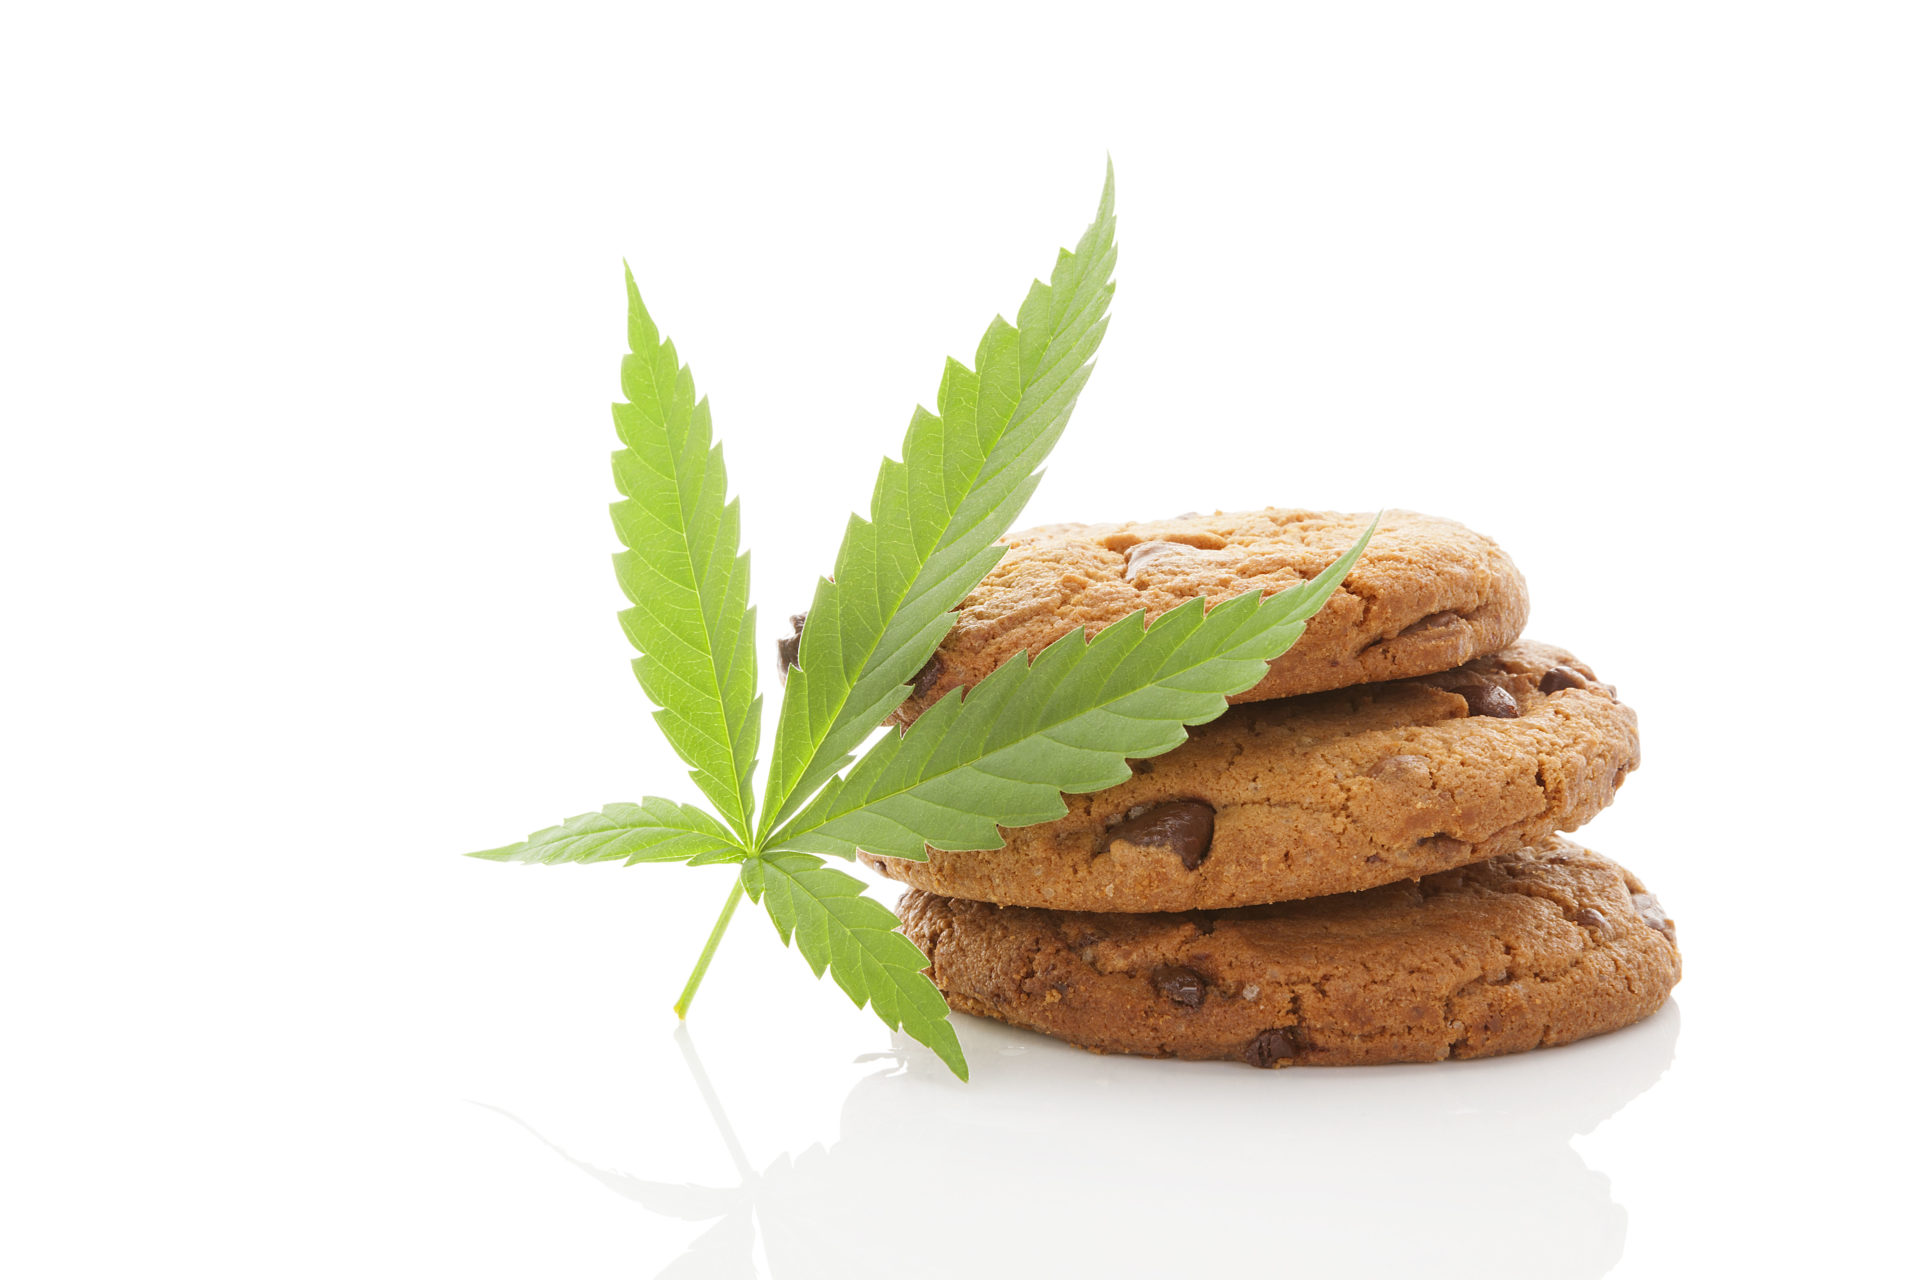
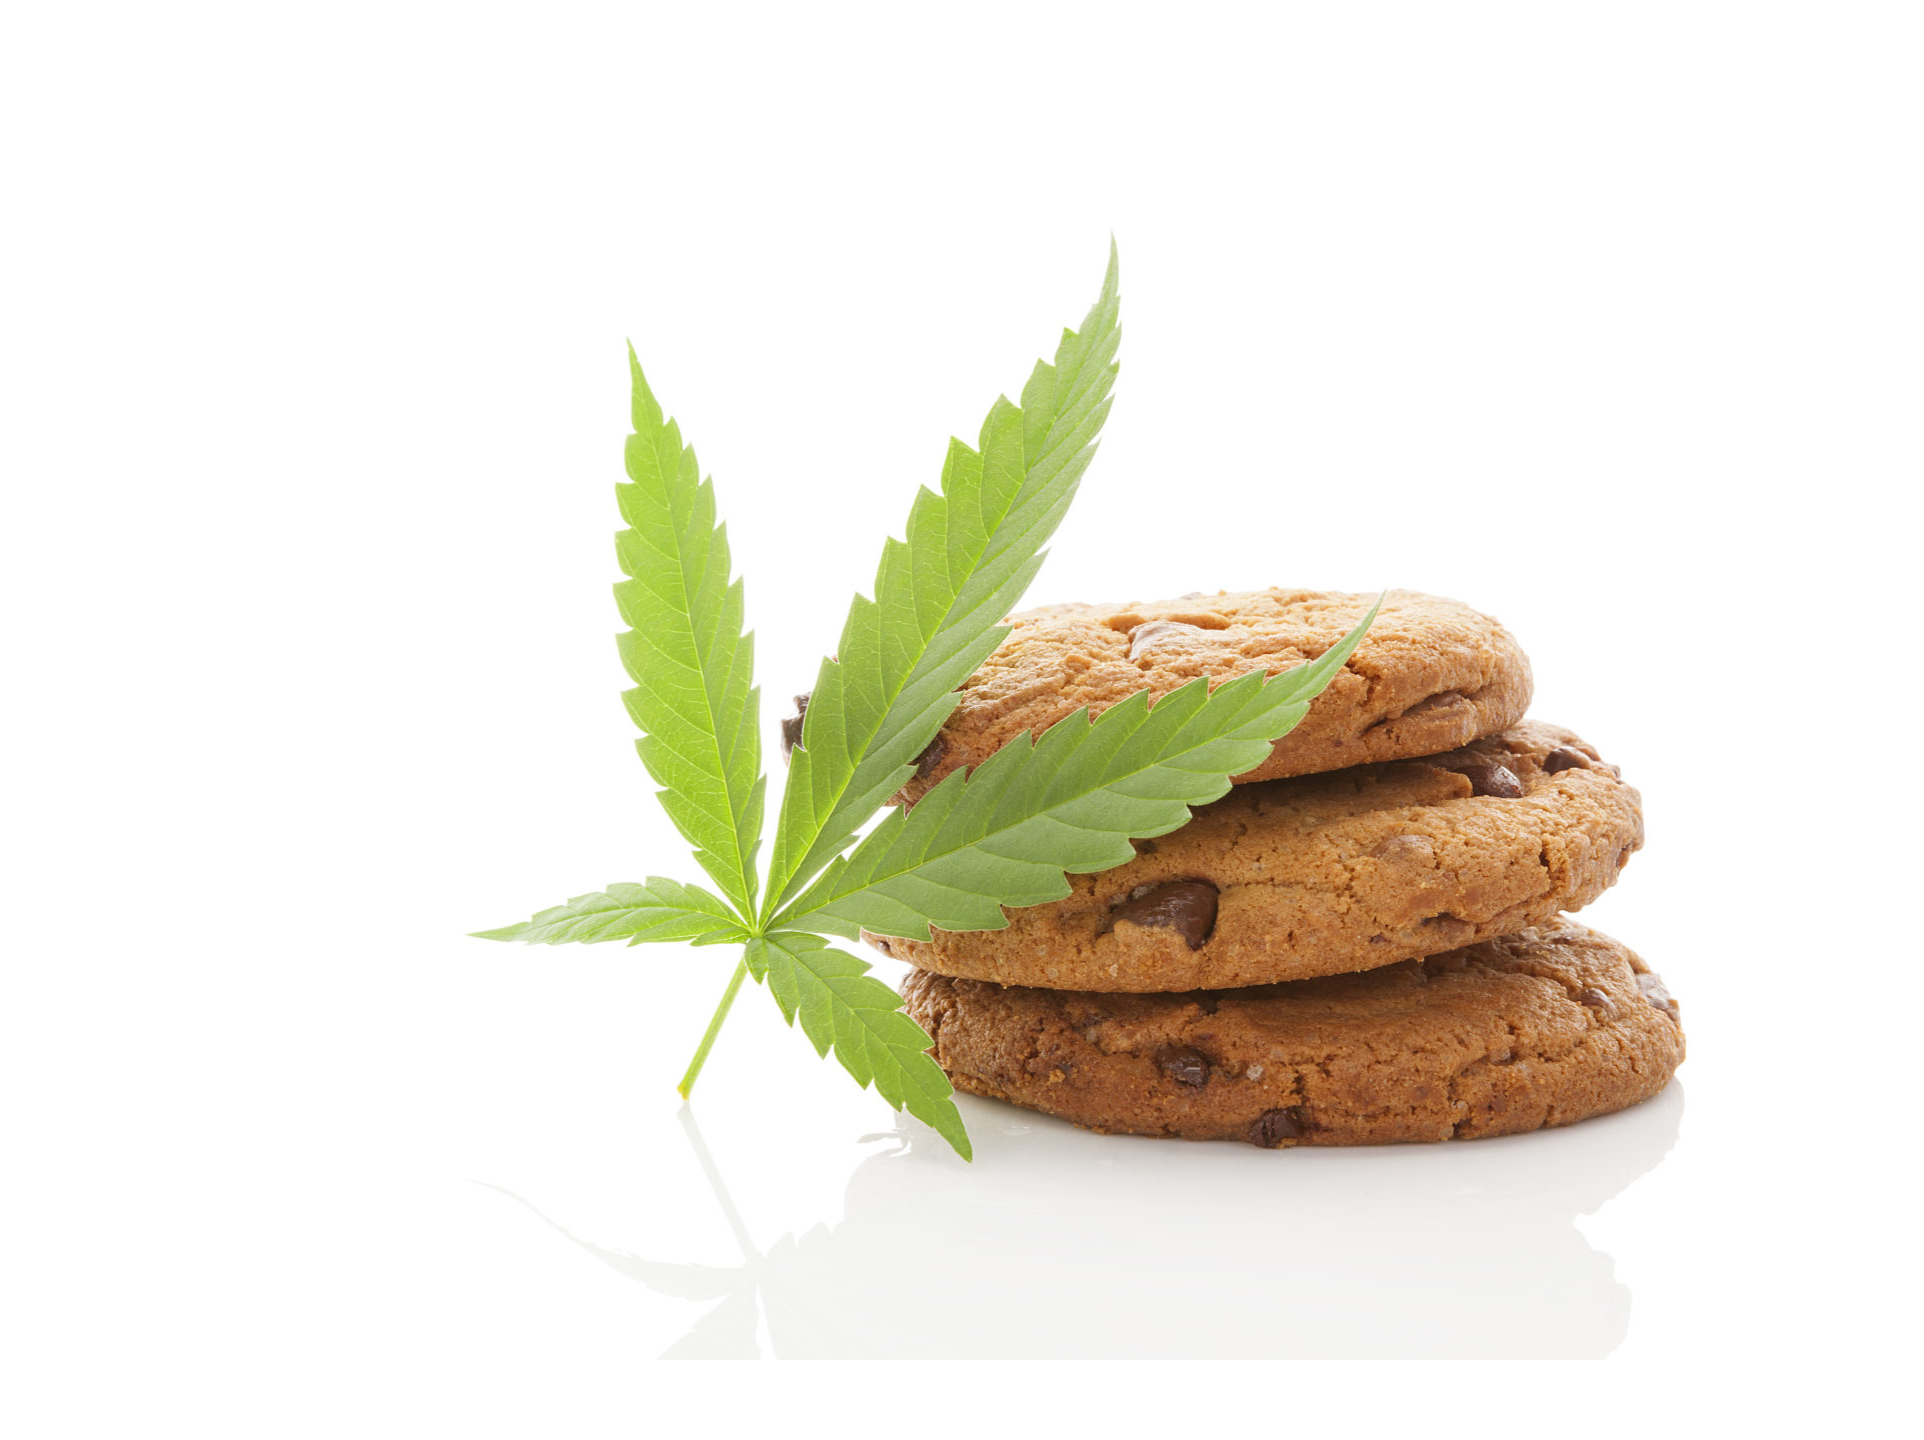
theme challenge update, spanning bgimg

Changed region(s): [[0.25, 0.125, 0.875, 0.875]]

diff --git a/projects/theme-challenge-4/modules/articles-intro/style.css b/projects/theme-challenge-4/modules/articles-intro/style.css
@@ -51,72 +51,60 @@ article-grid ul {
 	article-grid ul {
 		display: grid;
 		grid-template-columns: repeat(8, 1fr);
-	    grid-template-rows: repeat(7, 1fr);
+	    grid-template-rows: repeat(6, 1fr);
 	    grid-gap: 15px;
 
-	    /*display: grid;
-		grid-template-columns: repeat(6, 1fr);
-		grid-template-rows: repeat(5, 1fr);
-		grid-column-gap: 5px;
-		grid-row-gap: 5px;
-*/
+
 
 	}
 
-	/*article-grid ul > * {
-		width: 100%;
-	    height: 100%;
-	    object-fit: cover;
-	}*/
+
 
 
 	article-grid ul li:nth-of-type(1){ /*mixmatch*/
 		
 
 
-	    grid-column-start: 3;
-	    grid-column-end: 5;
+	
+	    grid-column: 1 / 3;
 
-	    grid-row-start: 6;
-	    grid-row-end: 8;
+	    grid-row-start: 3;
+	    grid-row-end: 5;
 
 	    
 
-	    /*grid-area: 4 / 1 / 5 / 3; */
 
 	}
 
 	article-grid ul li:nth-of-type(2){ /*flower*/
-		grid-column-start: 3;
-	    grid-column-end: 5;
+
+	    grid-column: 6 / 9;
 
 	    grid-row-start: 4;
-	    grid-row-end: 6;
+	    grid-row-end: 7;
 
 
-	    /*grid-area: 1 / 1 / 4 / 5;*/
 	    
 
 	}
 	article-grid ul li:nth-of-type(3){ /*carts*/
-		grid-column-start: 7;
-	    grid-column-end: 9;
 
-	    grid-row-start: 1;
+
+	    grid-column: 7 / 9;
+
+	    grid-row-start: 2;
 	    grid-row-end: 4;
 
-	     /*grid-area: 3 / 5 / 6 / 7;*/
 	    
 	}
-	article-grid ul li:nth-of-type(4){ /*mystic*/
+	article-grid ul li:nth-of-type(4){ /*edible*/
 		grid-column-start: 1;
 	    grid-column-end: 3;
 
-	    grid-row-start: 2;
-	    grid-row-end: 5;
+	    grid-row-start: 1;
+	    grid-row-end: 3;
 
 	    
-	    /*grid-area: 5 / 1 / 6 / 3;*/
 	    
 	}
 	article-grid ul li:nth-of-type(5){ /*cookie*/
@@ -126,16 +114,14 @@ article-grid ul {
 	    grid-row-start: 1;
 	    grid-row-end: 4;
 
-	    /*grid-area: 1 / 5 / 3 / 7;*/
 	    
 	}
 	article-grid ul li:nth-of-type(6){ /*conc*/
-		grid-column-start: 5;
-	    grid-column-end: 8;
+		grid-column-start: 3;
+	    grid-column-end: 6;
 
 	    grid-row-start: 4;
-	    grid-row-end: 7;
-	    /*grid-area: 4 / 3 / 6 / 5;*/
+	    grid-row-end: 6;
 
 
 	}

diff --git a/projects/theme-challenge-4/styles/site.css b/projects/theme-challenge-4/styles/site.css
@@ -34,10 +34,10 @@
 
 /* then other contextual styles */
 body {
-	
-	background-size: 90%;
-	background-repeat: no-repeat;
-	background-position: 100% 0%;
+	background-image: url('../images/leaf-art.jpg'), url('../images/flower.jpg');
+	background-size: 100vw 800px, 450px;
+	background-repeat: no-repeat, repeat-x;
+	background-position: center 30px, 50% 25%;
 	background-color: var(--paper);
 	color: var(--ink);
 }
@@ -45,7 +45,7 @@ body {
 body > header {
 	/*background-color: var(--color);*/
 	border-top: 30px solid var(--color);
-	background-color: var(--paper);
+	/*background-color: var(--paper);*/
 }
 
 /*section:nth-child(odd) {
@@ -60,14 +60,15 @@ body > header {
 
 section, header, footer {
 	padding: 0 10px;
+	/*border: 5px solid red;*/
 }
 
 
 
 section.welcome {
-	background-image: url('../images/store.jpg');
-	background-image: url('../images/flower-wide.jpg');
-	background-image: url('../images/leaf-art.jpg');
+/*	background-image: url('../images/store.jpg');
+	background-image: url('../images/flower-wide.jpg');*/
+	/*background-image: url('../images/leaf-art.jpg');*/
 	background-size: cover;
 	background-repeat: no-repeat;
 	background-position: center center;

diff --git a/projects/theme-challenge-4/modules/article-card/style.css b/projects/theme-challenge-4/modules/article-card/style.css
@@ -2,7 +2,7 @@
 .article-card {
 	display: block;
 	/*border: 2px solid var(--weed-secondary-color);*/
-	/*border-radius: 30px;*/
+	border-radius: 2px;
 	overflow: hidden;
 	
 	display: flex;
@@ -65,12 +65,12 @@
 @media (min-width:  1200px) {
 	article-grid ul li {
 		position: relative;
-		/*min-height: 300px;
-		max-height: 300px;*/
-		background-color: var(--weed-gray);
+
 
 
 	}
+
+
 
 	.article-card picture {
 		background-color: var(--weed-gray);
@@ -84,7 +84,7 @@
 		
 
 		/*max-height: 450px;*/
-
+		transition: 0.2s;
 	}
 
 
@@ -94,8 +94,38 @@
 		left: 0;
 		bottom: 0;
 		background-color: initial;
+		display: none;
+		transition: 0.2s;
+		max-width: 300px;
 	}
-	
+
+
+	.article-card:hover picture {
+		position: relative;
+		z-index: 1;
+		background-color: initial;
+		transform: scale(1.1);
+
+	}
+
+	.article-card:hover picture::before {
+		content: "";
+		height: 100%;
+		width: 100%;
+		position: absolute;
+		background-color: hsla(105, 20%, 10%, 1.00);
+		opacity: 0.6;
+		top: 0;
+		left: 0;
+		z-index: -1;
+	}
+
+	.article-card:hover text-content {
+		display: flex;
+		z-index: 1;
+		color: var(--weed-white);
+	}
+
 }
 
 

diff --git a/projects/theme-challenge-4/modules/mast-head/style.css b/projects/theme-challenge-4/modules/mast-head/style.css
@@ -7,7 +7,7 @@ mast-head {
 	align-items: center;
 	justify-content: space-between;
 	flex-wrap: wrap;
-	color: var(--ink);
+	color: var(--weed-white);
 	
 }
 mast-head .site-menu {
@@ -28,12 +28,22 @@ mast-head .logo {
 }
 
 mast-head .logo * {
-	fill: var(--ink);
+	fill: var(--weed-white);
+}
+
+.logo:hover .leaf {
+	fill: red;   /* todo*/
 }
 
 .logo .word {
 	transform: translate(-36px 45.5px);
 }
+
+
+
+
+
+
 
 mast-head nav ul {
 	display: flex;

diff --git a/projects/theme-challenge-4/modules/site-map/style.css b/projects/theme-challenge-4/modules/site-map/style.css
@@ -13,9 +13,10 @@ site-map {
 
 site-map .logo {
 	max-width: 180px;
-	margin-bottom: 13px;
+	/*margin-bottom: 13px;*/
 	position: relative;
 	bottom: 5px;
+	margin-bottom: 5px;
 }
 
 site-map .logo * {
@@ -36,3 +37,10 @@ site-map .site-menu li:not(:first-of-type) {
 site-map .x-menu {
 	padding: 15px 10px;
 }
+
+
+site-map .x-menu a,
+site-map .site-menu a {
+	padding: 5px 0;
+}
+

diff --git a/projects/theme-challenge-4/styles/typography.css b/projects/theme-challenge-4/styles/typography.css
@@ -30,7 +30,7 @@ body * {
 
 .attention-voice	{
 	font-family: 'Noe Display Bold', 'Lato', sans-serif;
-	font-size: 2rem;
+	font-size: clamp(1.5rem, 5vw, 2rem);
 	font-weight: 700;
 	line-height: 1.2em;
 }

diff --git a/projects/theme-challenge-4/modules/graphic-diptych/style.css b/projects/theme-challenge-4/modules/graphic-diptych/style.css
@@ -12,8 +12,15 @@ graphic-diptych {
 
 	position: relative;
 
+
+
 }
 
+@media (min-width:  700px) {
+	graphic-diptych {
+		padding: 150px 0;
+	}
+}
 
 
 

diff --git a/projects/theme-challenge-4/modules/call-to-action/style.css b/projects/theme-challenge-4/modules/call-to-action/style.css
@@ -23,6 +23,8 @@ call-to-action {
 
 
 .sign-up {
+	margin-top: 450px;
+
 	position: relative;
 	z-index: 1;
 }

diff --git a/projects/theme-challenge-4/index.php b/projects/theme-challenge-4/index.php
@@ -20,6 +20,7 @@
 
 
 	<body>
+		
 		<header>
 		<inner-column>
 			
